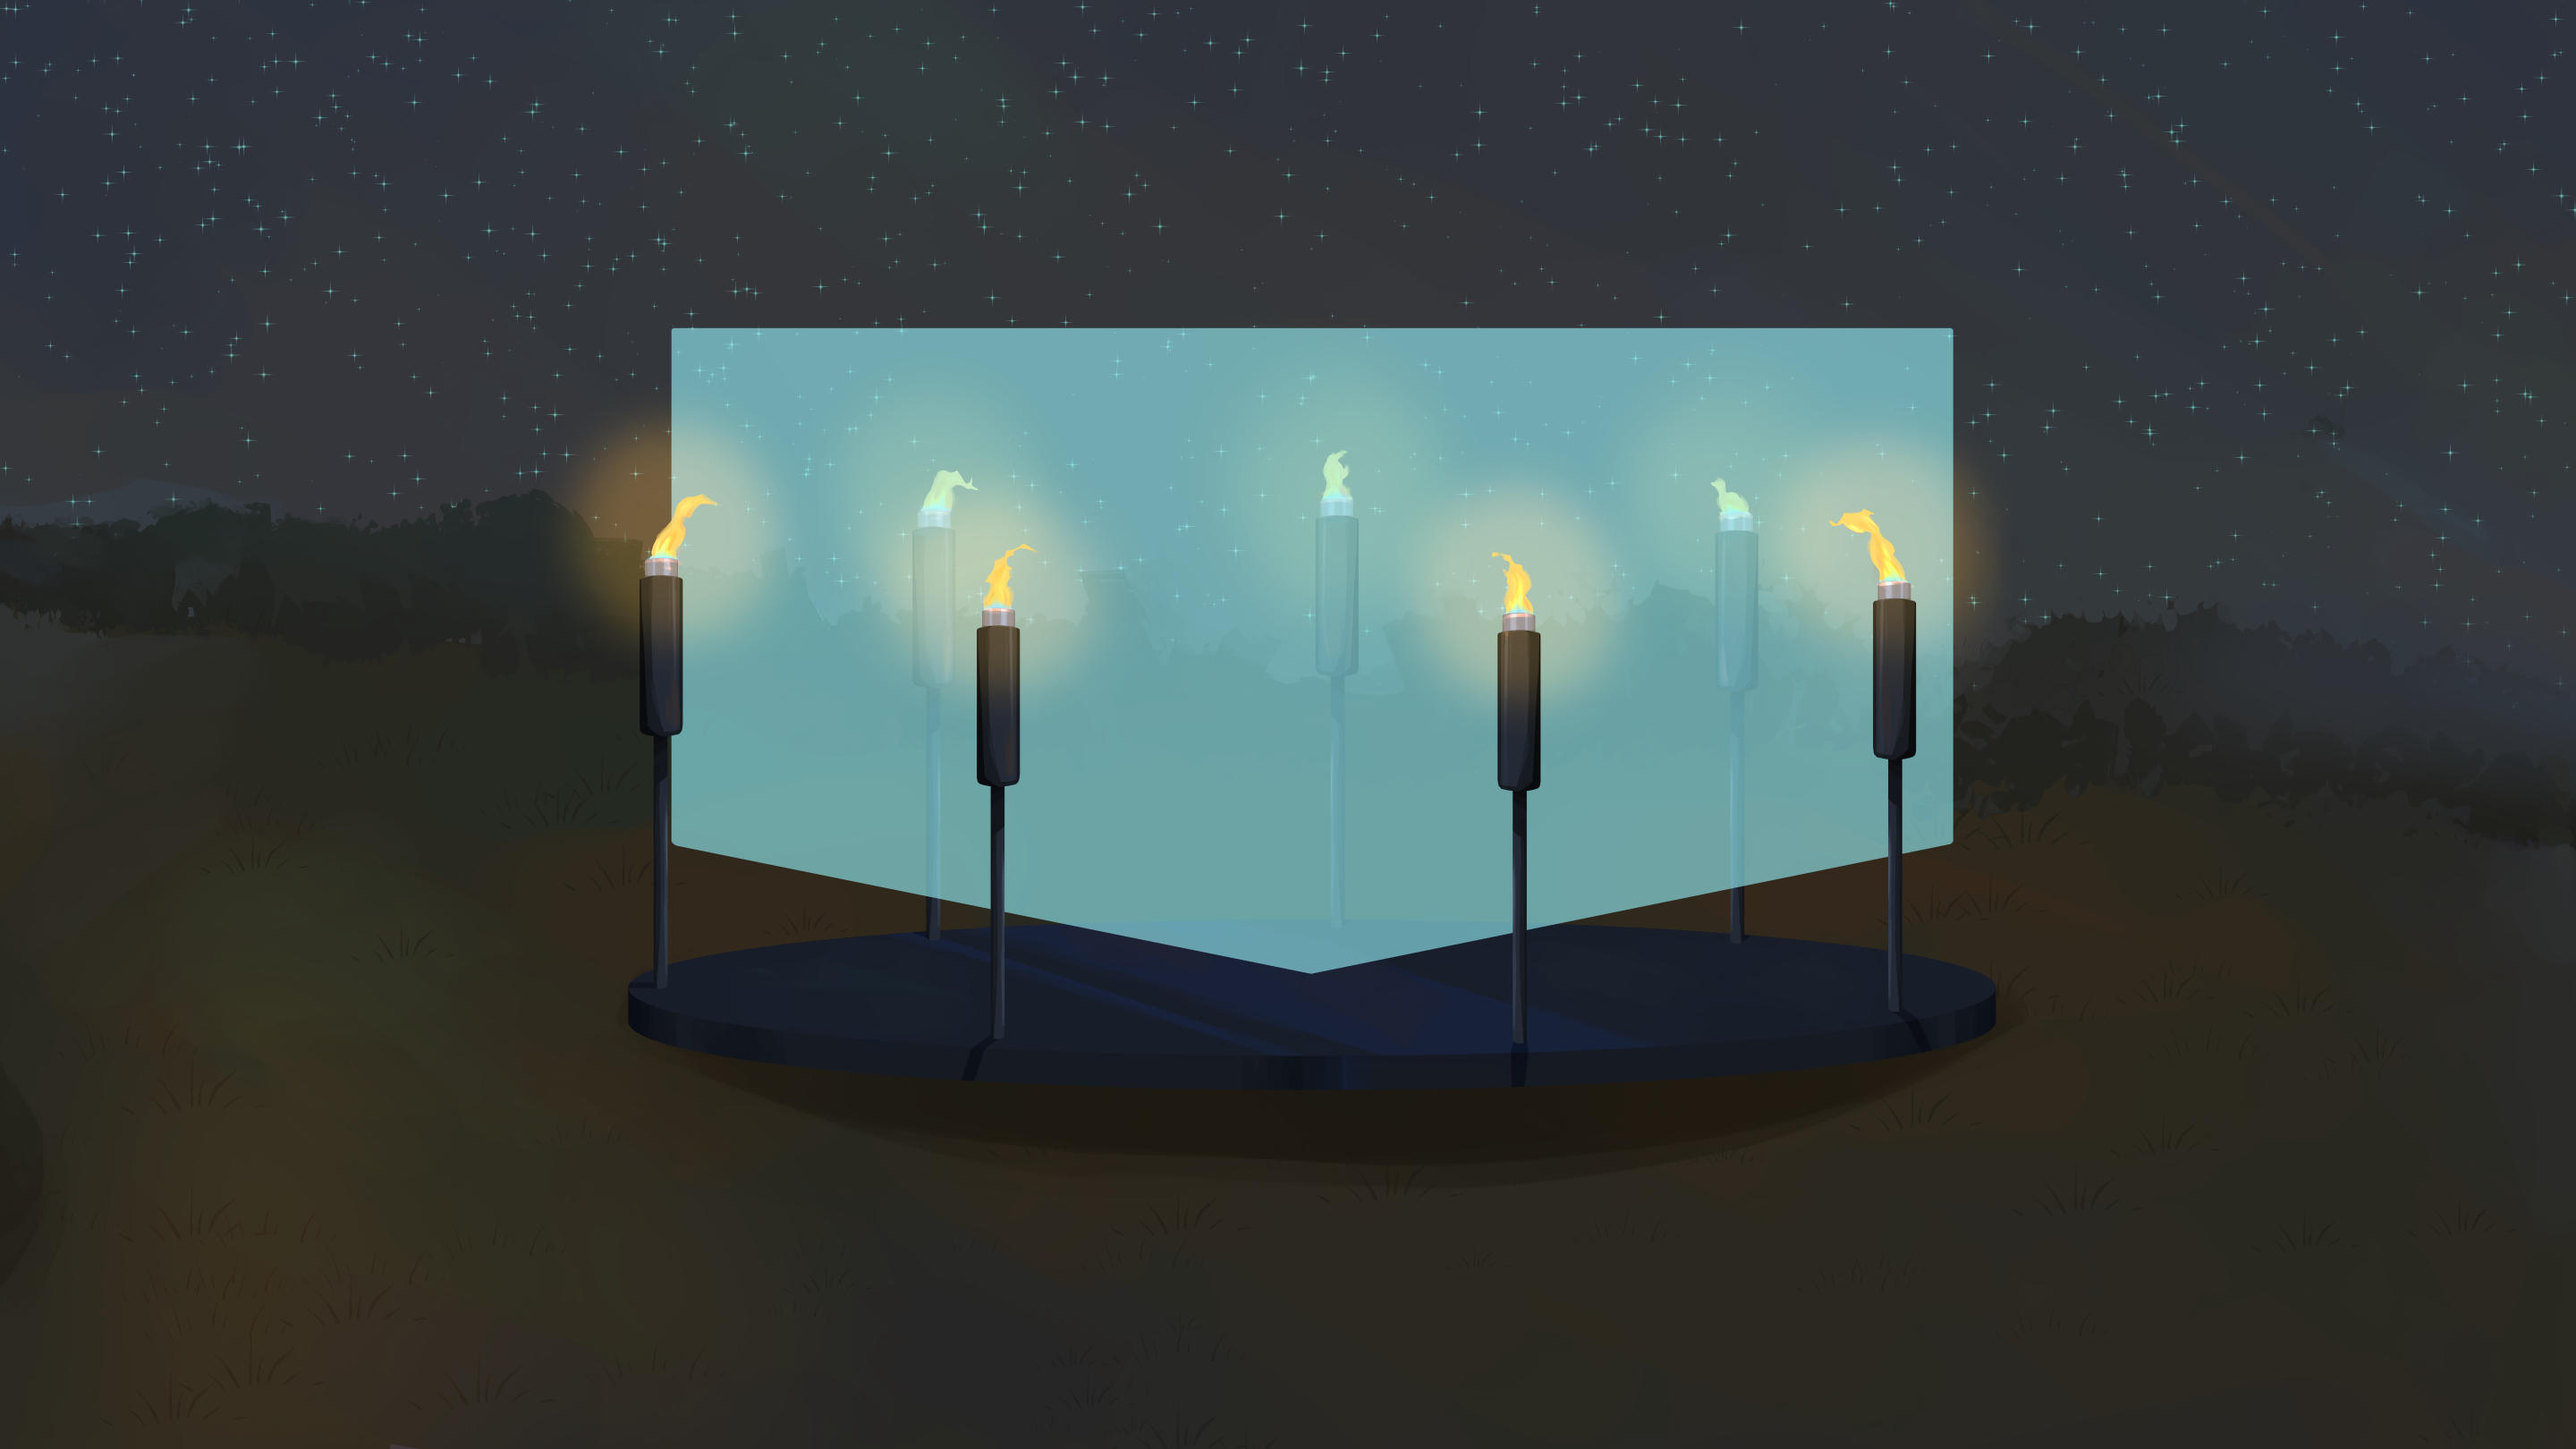
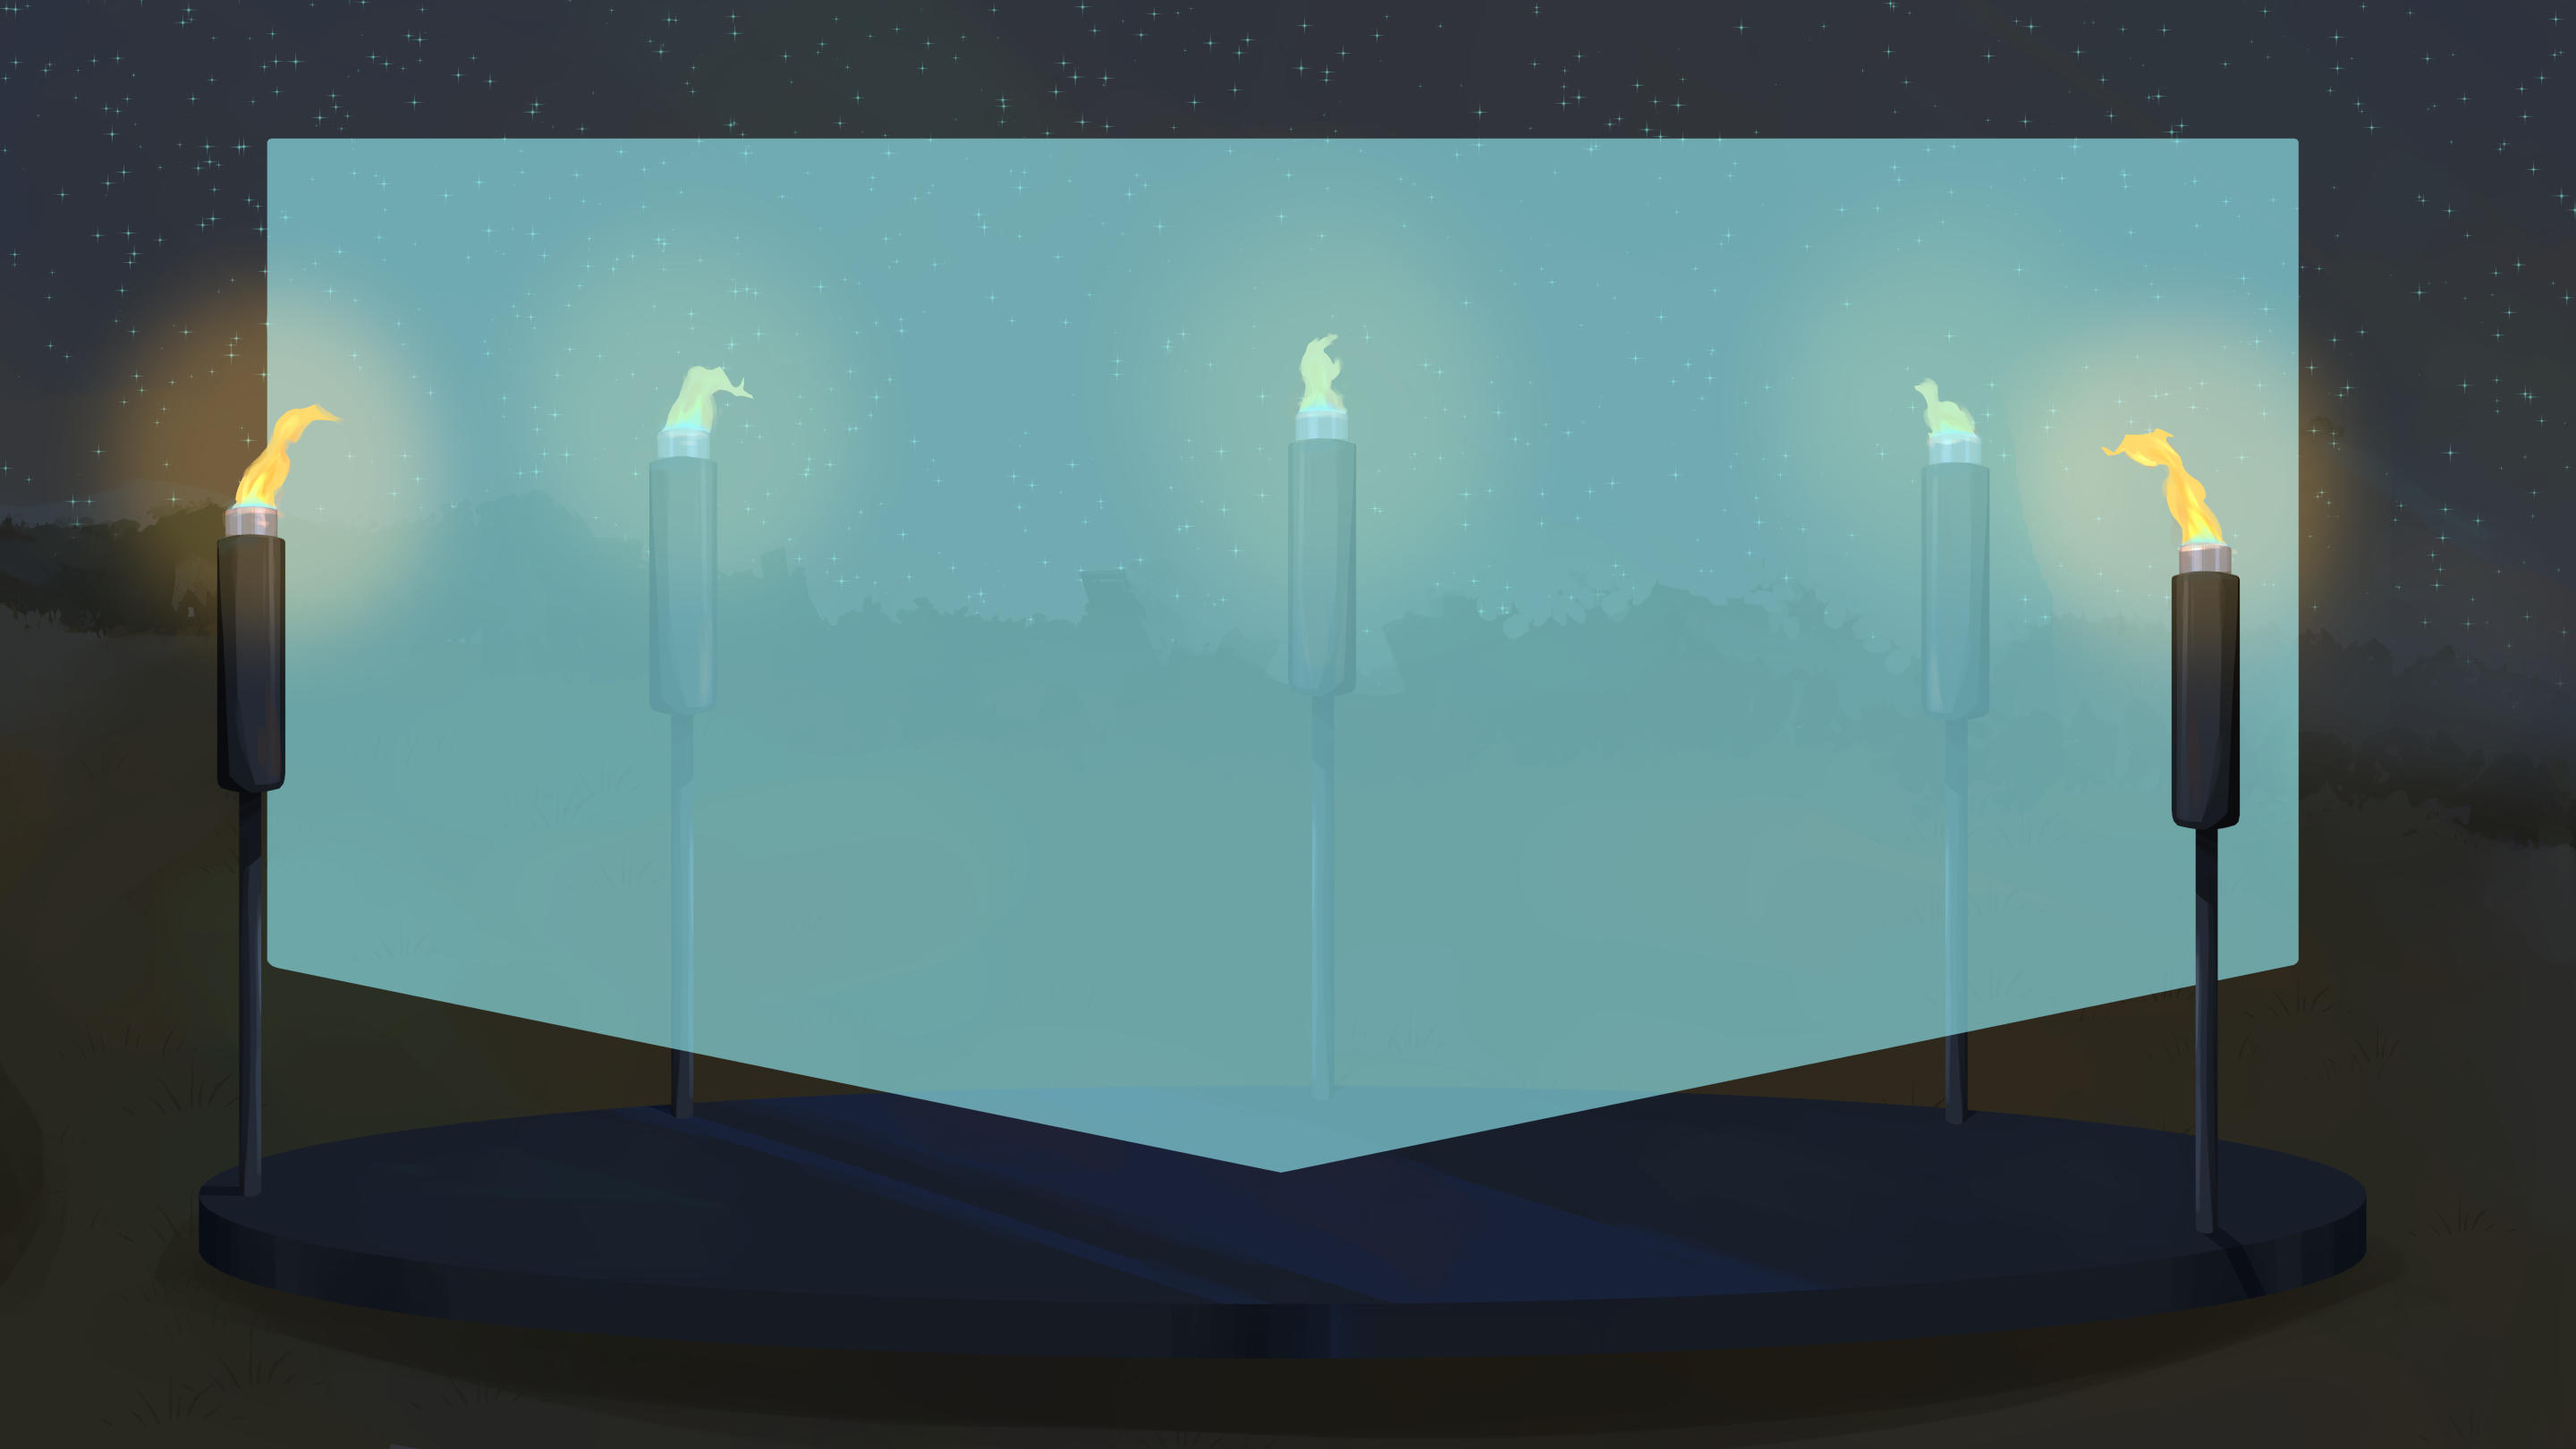
change background image

diff --git a/src/pages/css/page.css b/src/pages/css/page.css
@@ -5,13 +5,6 @@
   background-size: cover;
 }
 
-.bg-skill {
-  background-image: url("../../images/background/coming-soon.jpg");
-  background-position: center;
-  background-repeat: no-repeat;
-  background-size: cover;
-}
-
 .bg-goal {
   background-image: url("../../images/background/goal.jpg");
   background-position: center;
@@ -20,8 +13,8 @@
 }
 
 .bg-timeline {
-  background-image: url("../../images/background/timeline-bg.jpg");
-  background-position: center;
+  background-image: url("../../images/background/timeline.jpg");
+  background-position: 50% 100%;
   background-repeat: no-repeat;
   background-size: cover;
 }

diff --git a/src/pages/index.js b/src/pages/index.js
@@ -30,9 +30,8 @@ const IndexPage = () => {
       require("../images/background/intro.jpg"),
       require("../images/background/coming-soon.jpg"),
       require("../images/background/goal.jpg"),
-      require("../images/background/timeline-bg.jpg"),
+      require("../images/background/timeline.jpg"),
       require("../images/background/skill.jpg"),
-      require("../images/board.png"),
       require("../images/star1.png"),
       require("../images/star2.png"),
     ]
